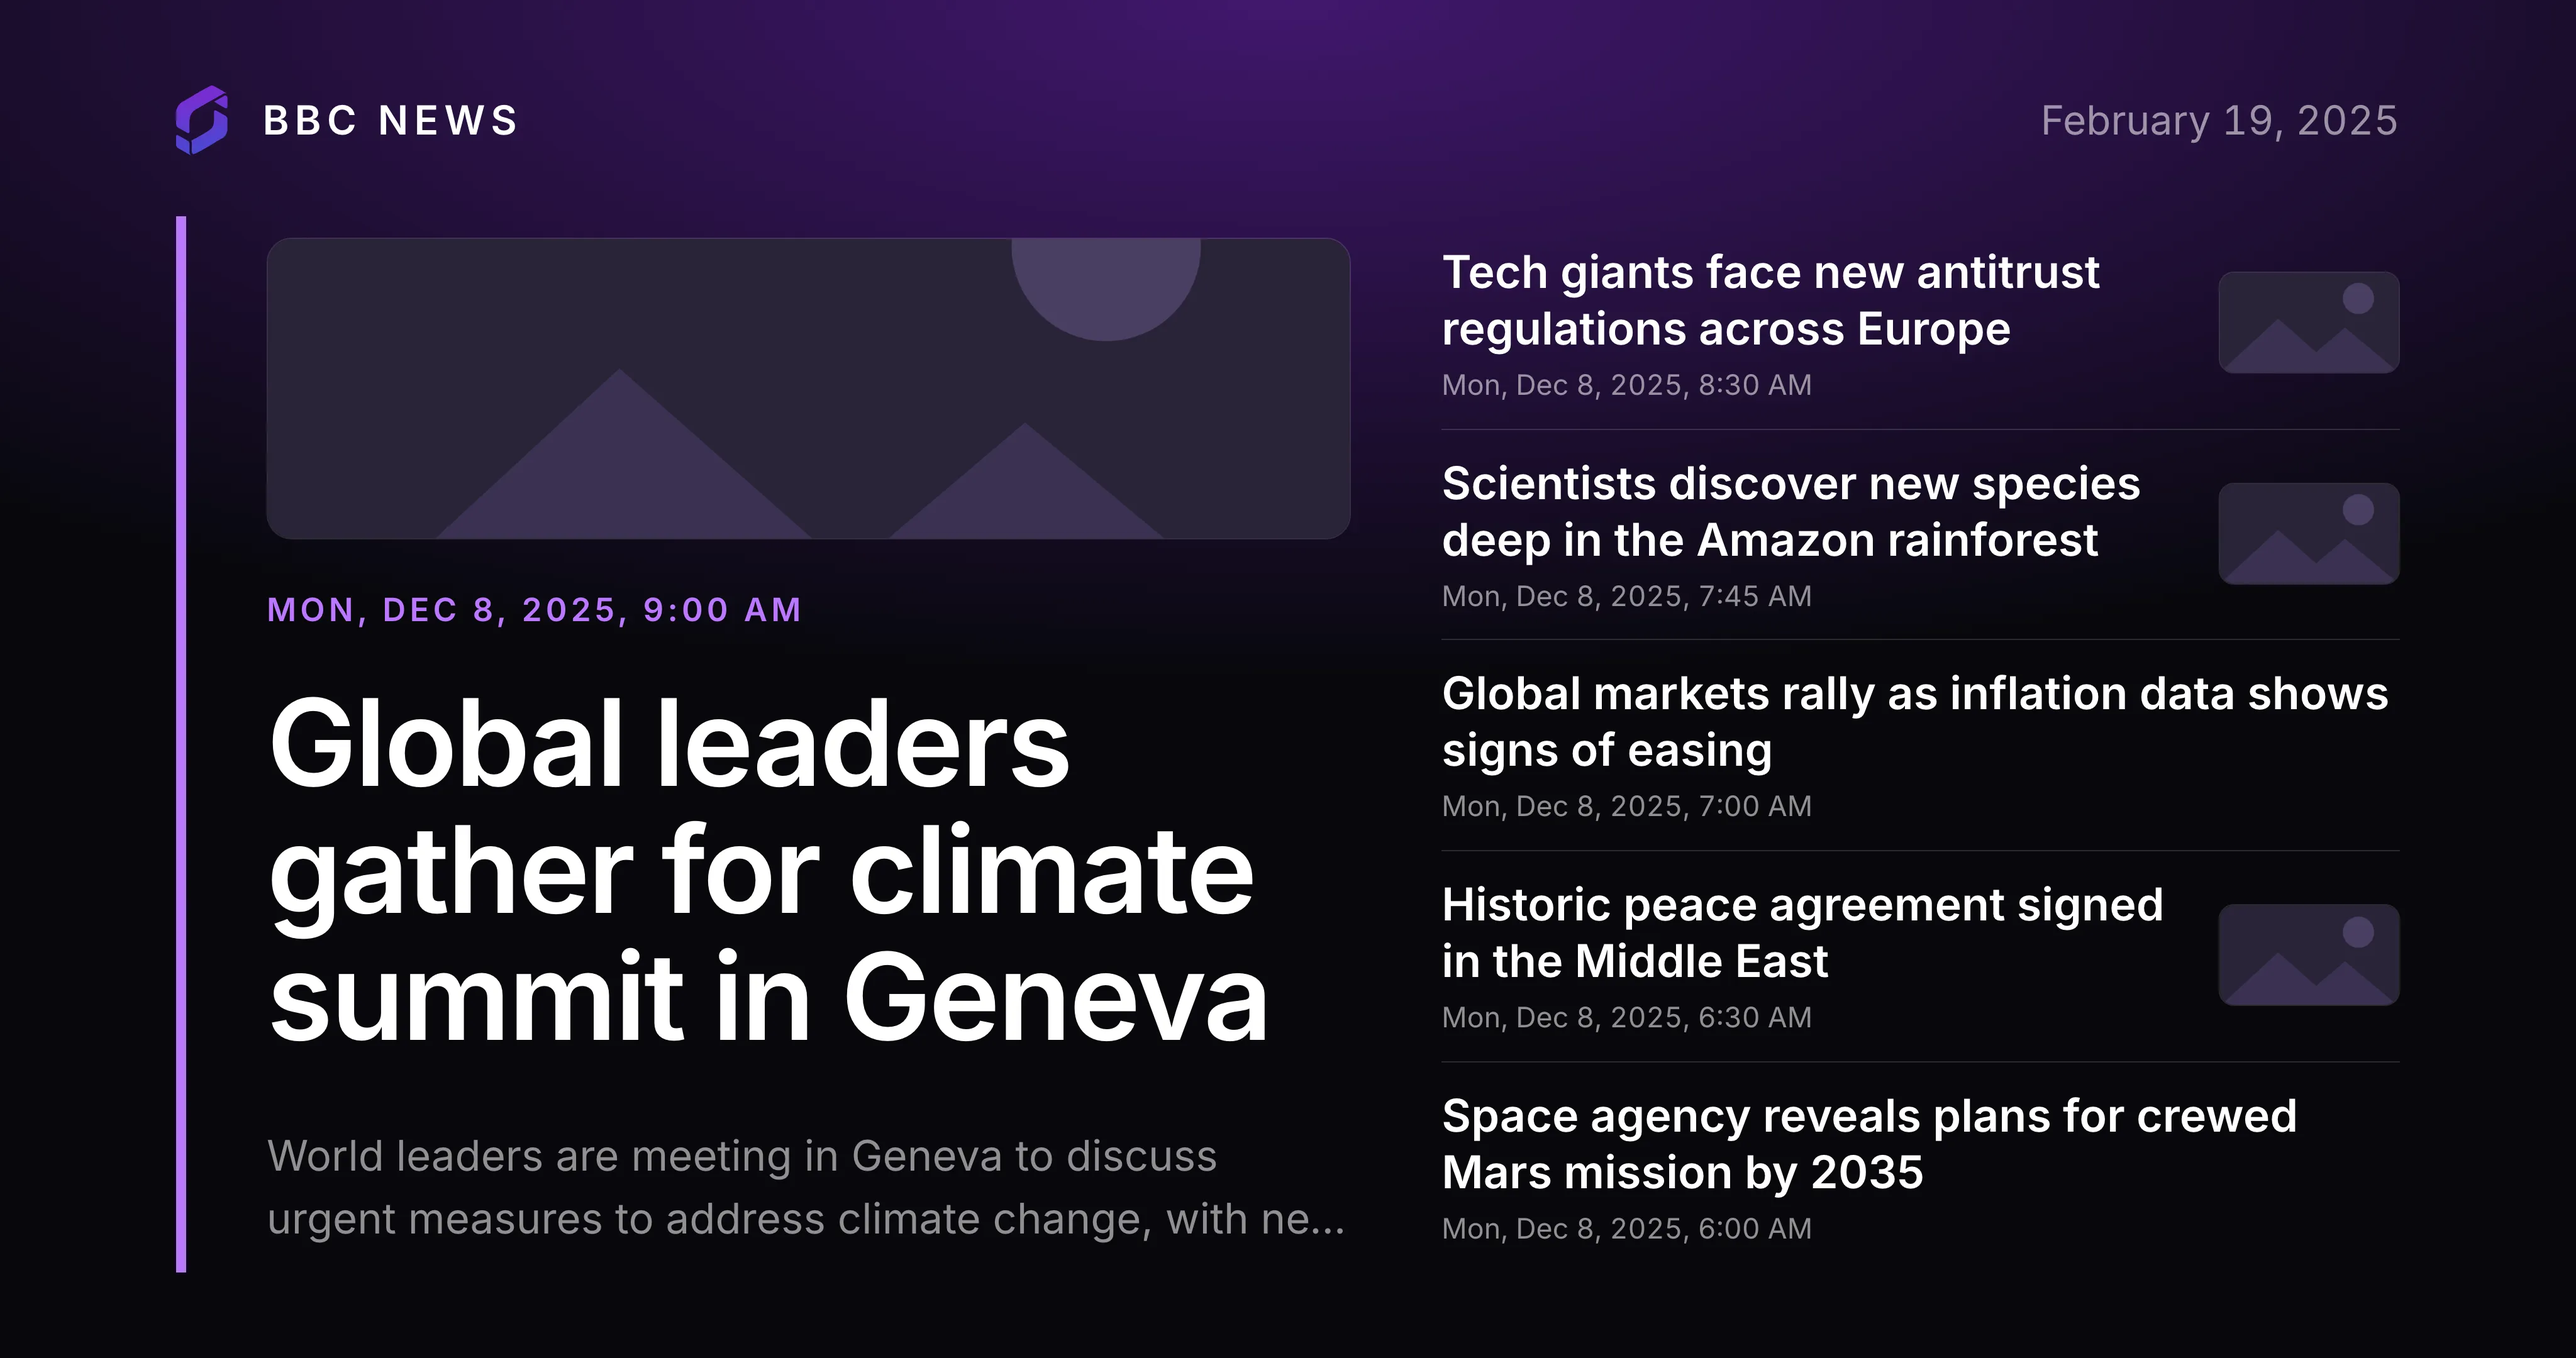
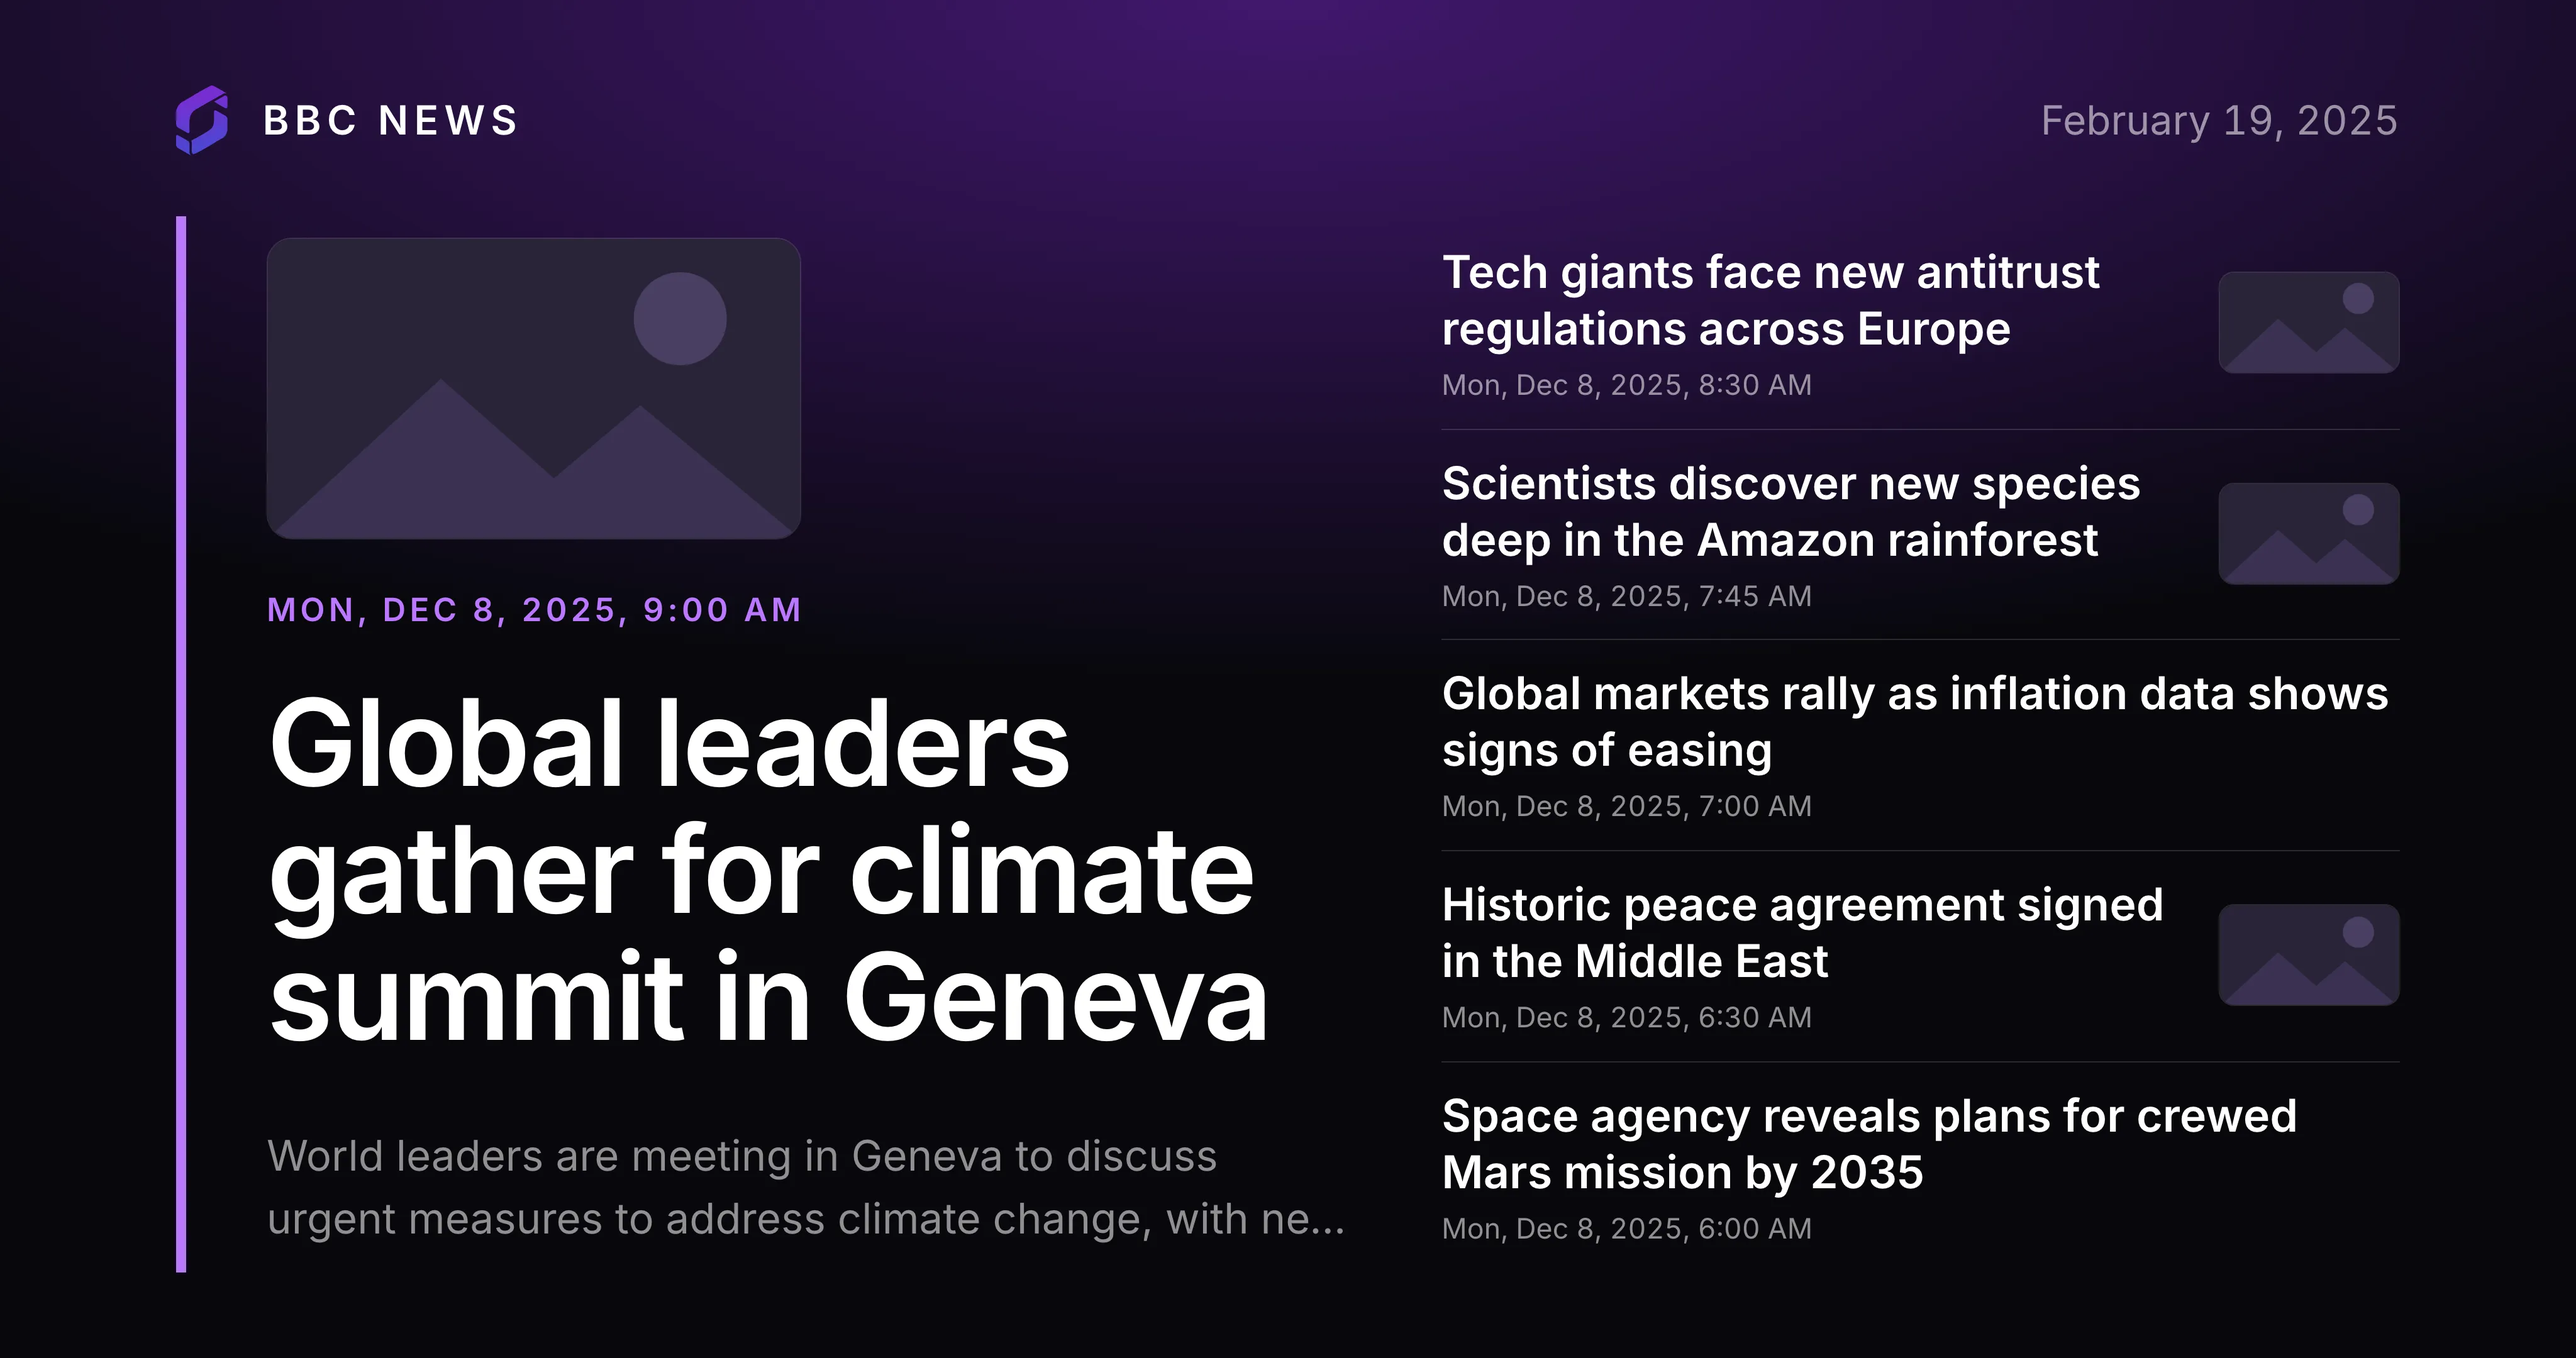
fix: show the whole lead image instead of cropping it
The lead image box was a fixed wide strip, so object-fit: cover cut the
top and bottom off 16:9 feed photos (BBC, ABC). Size the image by its own
aspect ratio within the same bounds instead.

diff --git a/src/css/style.css b/src/css/style.css
@@ -105,10 +105,14 @@ auto-scaler {
   flex-shrink: 0;
 }
 
+/* Sized by the image's own aspect ratio inside a bounding box, so the whole
+   picture shows instead of a wide strip cropped out of its middle */
 .news-hero-image {
-  width: 100%;
-  height: 15rem;
-  object-fit: cover;
+  align-self: flex-start;
+  width: auto;
+  height: auto;
+  max-width: 100%;
+  max-height: 15rem;
   border-radius: 1.25rem;
   border: 0.0625rem solid var(--news-rule);
 }
@@ -298,7 +302,7 @@ body.mode-list .news-item-date {
   }
 
   .news-hero-image {
-    height: 12rem;
+    max-height: 12rem;
   }
 
   .news-hero-excerpt {
